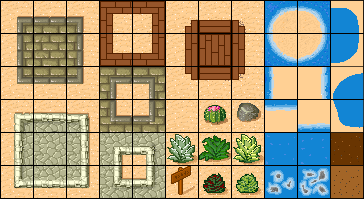
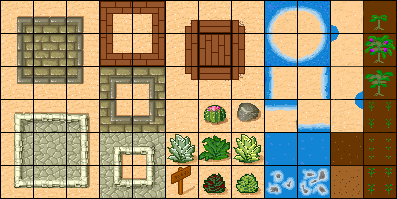
Basic farming works, can farm guava fruits

diff --git a/public/states/Game.js b/public/states/Game.js
@@ -32,7 +32,7 @@ minutes = '00';
 var spritenumber = 1;
 var invCounter = 0;
 isDisplayText = false;
-displayBuilder = true;
+displayBuilder = false;
 facing = 's';
 
 charX = CHAR_START_X;
@@ -63,21 +63,19 @@ Game.prototype = {
 
 	create() {
 		//order matters, first is in back.
-		//game.add.tileSprite(0, 0, 1920, 1920, 'ground1');
 		game.world.setBounds(0, 0, 1920, 1920);
 		map = game.add.tilemap('island');
 		map.addTilesetImage('Collide', 'metaTiles');
     	map.addTilesetImage('Desert', 'tiles');
-    	//currentTile = map.getTile(1, 1);
 
     	collideLayer = map.createLayer('Collisions');
     	layer = map.createLayer('Ground');
-    	//layer = map.createLayer('Ground');
 
-    	map.setCollision(67);
-    	//map.setCollisionBetween(41);
-    	map.setCollision(67, true, 'Collisions');
-    	//map.setCollision(41, true, 'Collisions');
+    	map.setCollision(73);
+    	//map.setCollisionBetween(48);
+    	map.setCollision(48);
+    	map.setCollision(72);
+    	map.setCollision(73, true, 'Collisions');
     	layer.resizeWorld();
 
     	marker = game.add.graphics();
@@ -98,8 +96,6 @@ Game.prototype = {
 		mainChar.animations.add('walkEast', [3, 4, 5], 15);
 		mainChar.animations.add('walkSouth', [6, 7, 8], 15);
 		mainChar.animations.add('walkWest', [9, 10, 11], 15);
-		//game.physics.p2.enable(mainChar);
-		//game.physics.enable(mainChar, Phaser.Physics.ARCADE);
 
 		//init char2 sprite + animations
 		char2 = game.add.sprite(300, 300, 'char2', 7);
@@ -107,18 +103,19 @@ Game.prototype = {
 		game.physics.enable(mainChar);
 		game.camera.follow(mainChar);
 
-
+		/********** TOP HUD ***********************/
 		healthbackground = game.add.sprite(0, 0, 'healthbackground');
 		healthbackground.visible = true;
 		healthbackground.fixedToCamera = true;
 
+		//time stuff
 		dayLabel = game.add.text(635, 10, 'Day: 1', {font: "16px Arial", fill: 'black'});
 		timeLabel = game.add.text(705, 10, 'Time: 8:00', {font: "16px Arial", fill: 'black'});
 		dayLabel.fixedToCamera = true;
 		timeLabel.fixedToCamera = true;
 		game.time.events.loop(Phaser.Timer.SECOND * 5, updateTime, this);
 
-		//Various Lifebars
+		//various bars
 		var barConfig = {x: 135, y: 20, width: 200, height: 20};
 		var bar2Config = {x: 135, y: 42, width: 200, height: 20};
 		var bar3Config = {x: 135, y: 64, width: 200, height: 20};
@@ -134,6 +131,7 @@ Game.prototype = {
 		myHungerBar = new HealthBar(game, bar3Config);
 		myHungerBar.setFixedToCamera(true);
 		myHungerBar.setBarColor('#f4ce42');
+		/********** END TOP HUD ***********************/
 
 
 		this.stage.disableVisibilityChange = false;
@@ -161,7 +159,7 @@ Game.prototype = {
 
 	update() {
 		game.physics.arcade.collide(mainChar, collideLayer);
-		//game.physics.arcade.collide(mainChar, layer);
+		game.physics.arcade.collide(mainChar, layer);
 		game.physics.arcade.collide(mainChar, craftingtable, collisionHandler, null, this);
 
 		mainChar.body.velocity.set(0);
@@ -305,15 +303,29 @@ function listenForKeyboardInputs(){
 				//console.log(dll.getItem(dialogLineNumber));
 			}
 			if(e.keyCode == Phaser.Keyboard.Y){
+				displayBuilder = !displayBuilder;
+			}
+			if(e.keyCode == Phaser.Keyboard.E && displayBuilder == true){
 				//check if you can build on this tile
 				currentTile = map.getTile(layer.getTileX(marker.x), layer.getTileY(marker.y));
 				console.log(currentTile);
-				//map.putTile(currentTile, layer.getTileX(marker.x), layer.getTileY(marker.y));
-				if(currentTile.index == 66){
-					map.putTile(55, layer.getTileX(marker.x), layer.getTileY(marker.y));
+				
+				//if the land is farmable dirt
+				if(currentTile.index == 71){
+					map.putTile(59, layer.getTileX(marker.x), layer.getTileY(marker.y));
 				}else{
 					console.log("can't build here");
 				}
+
+				//if tile is a crop that can be harvested
+				if(currentTile.index == 72){
+					//reset it to dirt
+					//increase crop count by a number
+					FoodItems.GUAVA += 4;
+					flashMessage("You picked 4 guava fruits!");
+					map.putTile(71, layer.getTileX(marker.x), layer.getTileY(marker.y));
+				}
+
 			}
 		}
 
@@ -417,6 +429,10 @@ function updateTime(){
 			hours = 0;
 			day += 1;
 			timeLabel.setText('Time: ' + hours + ':' + minutes);
+
+			//probably move this function somewhere else but for now it can be when the day changes
+			updateCropGrowth();
+
 		}else{
 			hours += 1;
 			thirstBarPercent -= 2.5;
@@ -505,6 +521,30 @@ function createPickUps(){
 
 function createBuildings(){
 	craftingtable = game.add.sprite(160, 255, 'craftingtable');
+}
+
+function updateCropGrowth(){
+	//loop through all tiles on the map
+	//if the are 59 change them to 60
+	//if the are 60 change them to 48
+	//if they are 48 change them to 72
+	for(var y = 0; y < map.height; ++y){
+		for(var x = 0; x < map.width; ++x){      
+			
+			var tile = map.getTile(x, y);
+			//console.log(tile);
+			if(tile.index == 59){
+				map.putTile(60, x, y);
+			}else if(tile.index == 60){
+				map.putTile(48, x, y);
+			}else if(tile.index == 48){
+				map.putTile(72, x, y);
+			}
+
+		}
+	}
+
+	console.log("Crops Grew");
 }
 
 function drawItems(){

diff --git a/public/img/island_Game_Map.tsx b/public/img/island_Game_Map.tsx
@@ -1,4 +1,4 @@
 <?xml version="1.0" encoding="UTF-8"?>
-<tileset name="island_Game_Tiles" tilewidth="32" tileheight="32" spacing="1" margin="1" tilecount="66" columns="11">
- <image source="island_Game_Tiles.png" width="364" height="199"/>
+<tileset name="island_Game_Tiles" tilewidth="32" tileheight="32" spacing="1" margin="1" tilecount="72" columns="12">
+ <image source="island_Game_Tiles.png" width="397" height="199"/>
 </tileset>

diff --git a/public/constants.js b/public/constants.js
@@ -106,3 +106,8 @@ var HEALTH = 100;
 		"WOODENFISHHOOK": 0,
 		"METALFISHHOOK": 0
 	};
+
+	var FoodItems = {
+		"GUAVA": 0,
+		"PASSIONFRUIT": 0
+	};
